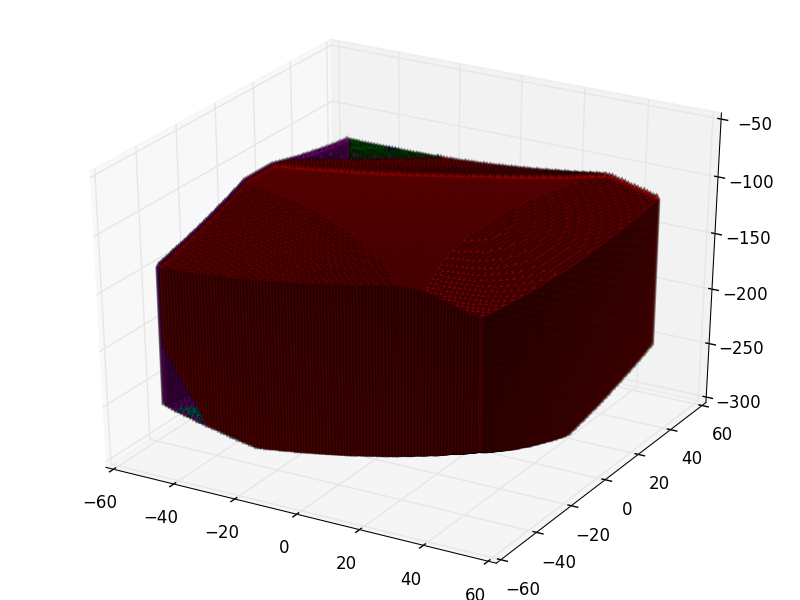
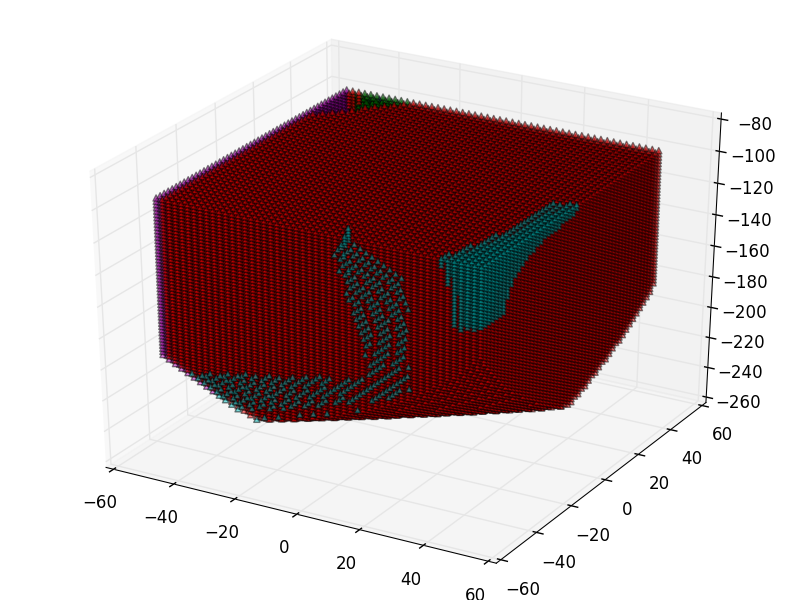
Update analyze

diff --git a/ComputeMotion/python/analyze.py b/ComputeMotion/python/analyze.py
@@ -8,24 +8,45 @@ import argparse
 import numpy as np
 import matplotlib.pyplot as plt
 from mpl_toolkits.mplot3d import Axes3D
-def calc_theta(x, y, z, l, r):
-    num = 2 * (x + r[1] - r[0]) * l[0]
+thresh = -0.1997885430712449
+def calc_theta(x,y,z, l, r):
+    """Calculate theta using x, y, z, l and r
+    seen from (r[0], 0)
+    """
+    x_ = x + r[1] * cos(pi/6) - r[0]
 
-    D = (2 * (x + r[1] - r[0]) * l[0])**2 + (2 * z * l[0])**2 \
-        - ((x + r[1] - r[0])**2 + y**2 + z**2 + l[0]**2 - l[1]**2)**2 
+    num = 2. * x_ * l[0]
+
+    D = 1. * (2 * x_ * l[0])**2 + (2 * z * l[0])**2 \
+        - (x_**2 + y**2 + z**2 + l[0]**2 - l[1]**2)**2
     if D < 0:
+        # print (x, y, z)
         return None
 
-    num += sqrt(D)
+    num1 = num + np.sqrt(D)
+    num2 = num - np.sqrt(D)
 
-    denum = (x + r[1] - r[0])**2 + y**2 + z**2 + l[0]**2 - l[1]**2 -2*z*l[0]
+    denum = 1. * x_**2 + y**2 + \
+            z**2 + l[0]**2 - l[1]**2 -2*z*l[0]
     if denum == 0:
+        # print (x, y, z)
         return None
 
-    res = num / denum
-    theta = 2 * atan(res) / pi * 180
+    res1 = num1 / denum
+    res2 = num2 / denum
+
+    theta1 = 2. * np.arctan(res1) # [rad]
+    theta2 = 2. * np.arctan(res2) # [rad]
+
+    # print theta1 / pi * 360
+    # print theta2 / pi * 360
+
+    theta = max(theta1, theta2)
+    if theta < thresh:
+        return None
 
     return theta
+
 
 def save_points_data(Xs, thetas):
     f = open('points_and_theta.csv', 'wb')
@@ -57,9 +78,9 @@ def main(sparseness, l1, l2, r1, r2):
 
     Xs = []
     thetas = []
-    rng = {'x': range(-50, 51, sparseness),
-           'y': range(-50, 51, sparseness),
-           'z': range(-l[0]-l[1], -l[0]+1, sparseness)} # 可動範囲候補
+    rng = {'x': range(-80, 81, sparseness),
+           'y': range(-80, 81, sparseness),
+           'z': range(-l[0]-l[1], 0, sparseness)} # 可動範囲候補
 
     cube = [[],[],[]]
     for z in rng['z']:
@@ -116,17 +137,18 @@ def main(sparseness, l1, l2, r1, r2):
 
     fig = plt.figure()
     ax = Axes3D(fig)
-    ax.scatter(X[theta_deltas_floor==-3.0], Y[theta_deltas_floor==-3.0], Z[theta_deltas_floor==-3.0], c='b', marker='^', alpha=0.5)
-    ax.scatter(X[theta_deltas_floor==-2.0], Y[theta_deltas_floor==-2.0], Z[theta_deltas_floor==-2.0], c='g', marker='^', alpha=0.5)
-    ax.scatter(X[theta_deltas_floor==-1.0], Y[theta_deltas_floor==-1.0], Z[theta_deltas_floor==-1.0], c='r', marker='^', alpha=0.5)
-    ax.scatter(X[theta_deltas_floor==0.0], Y[theta_deltas_floor==0.0], Z[theta_deltas_floor==0.0], c='c', marker='^', alpha=0.5)
-    ax.scatter(X[theta_deltas_floor==1.0], Y[theta_deltas_floor==1.0], Z[theta_deltas_floor==1.0], c='m', marker='^', alpha=0.5)
+    ax.scatter(X, Y, Z, c='r', marker='^', alpha=0.5)
+    # ax.scatter(X[theta_deltas_floor==-3.0], Y[theta_deltas_floor==-3.0], Z[theta_deltas_floor==-3.0], c='b', marker='^', alpha=0.5)
+    # ax.scatter(X[theta_deltas_floor==-2.0], Y[theta_deltas_floor==-2.0], Z[theta_deltas_floor==-2.0], c='g', marker='^', alpha=0.5)
+    # ax.scatter(X[theta_deltas_floor==-1.0], Y[theta_deltas_floor==-1.0], Z[theta_deltas_floor==-1.0], c='r', marker='^', alpha=0.5)
+    # ax.scatter(X[theta_deltas_floor==0.0], Y[theta_deltas_floor==0.0], Z[theta_deltas_floor==0.0], c='c', marker='^', alpha=0.5)
+    # ax.scatter(X[theta_deltas_floor==1.0], Y[theta_deltas_floor==1.0], Z[theta_deltas_floor==1.0], c='m', marker='^', alpha=0.5)
 
     # cube = np.array(cube)
     # ax.scatter(cube[0], cube[1], cube[2], c='w', marker='o', alpha=0.05)
 
-    #plt.show()
-    plt.savefig('can_move.png')
+    plt.show()
+    # plt.savefig('can_move.png')
 
 if __name__ == '__main__':
     parser = argparse.ArgumentParser(description='Analyze about motion of parallel link')
